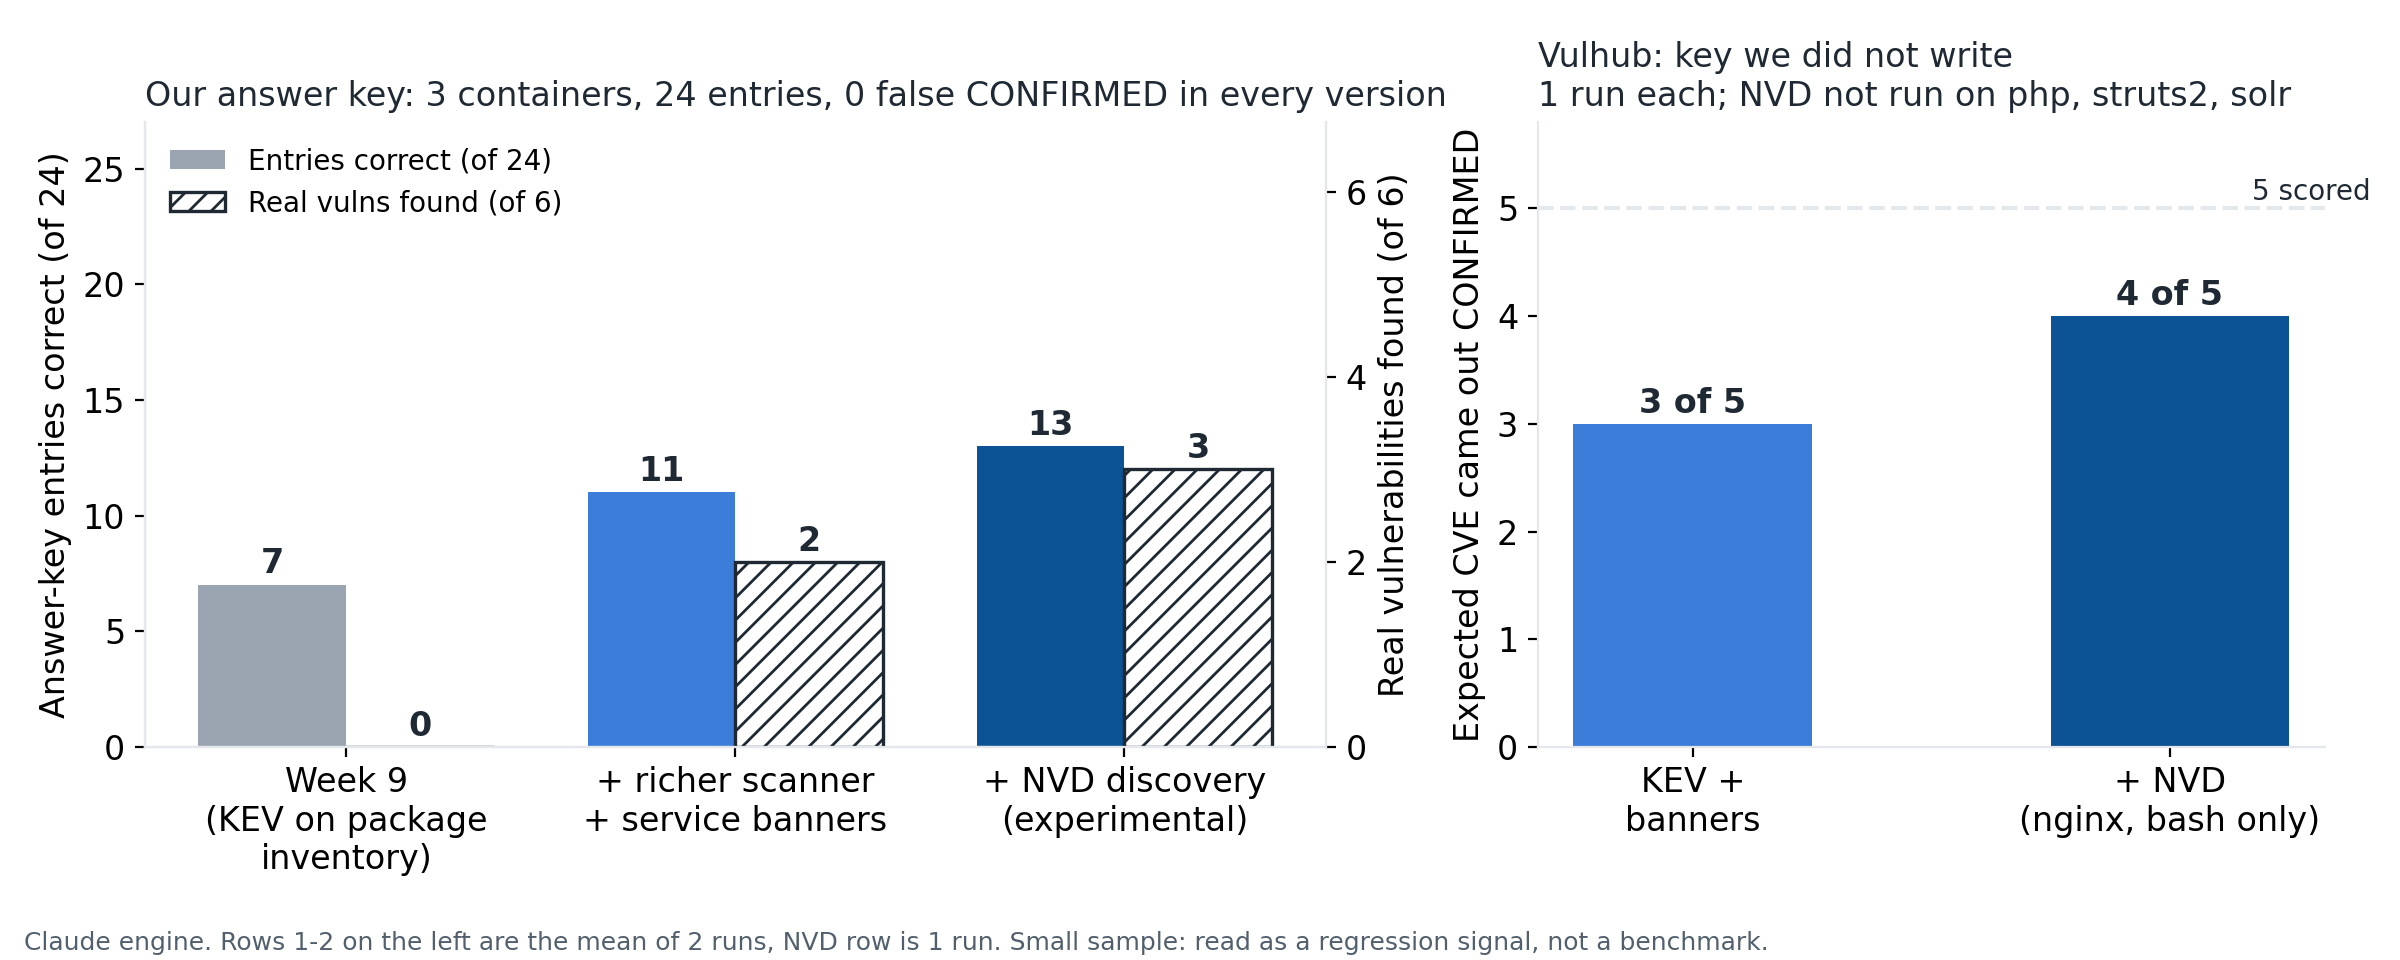
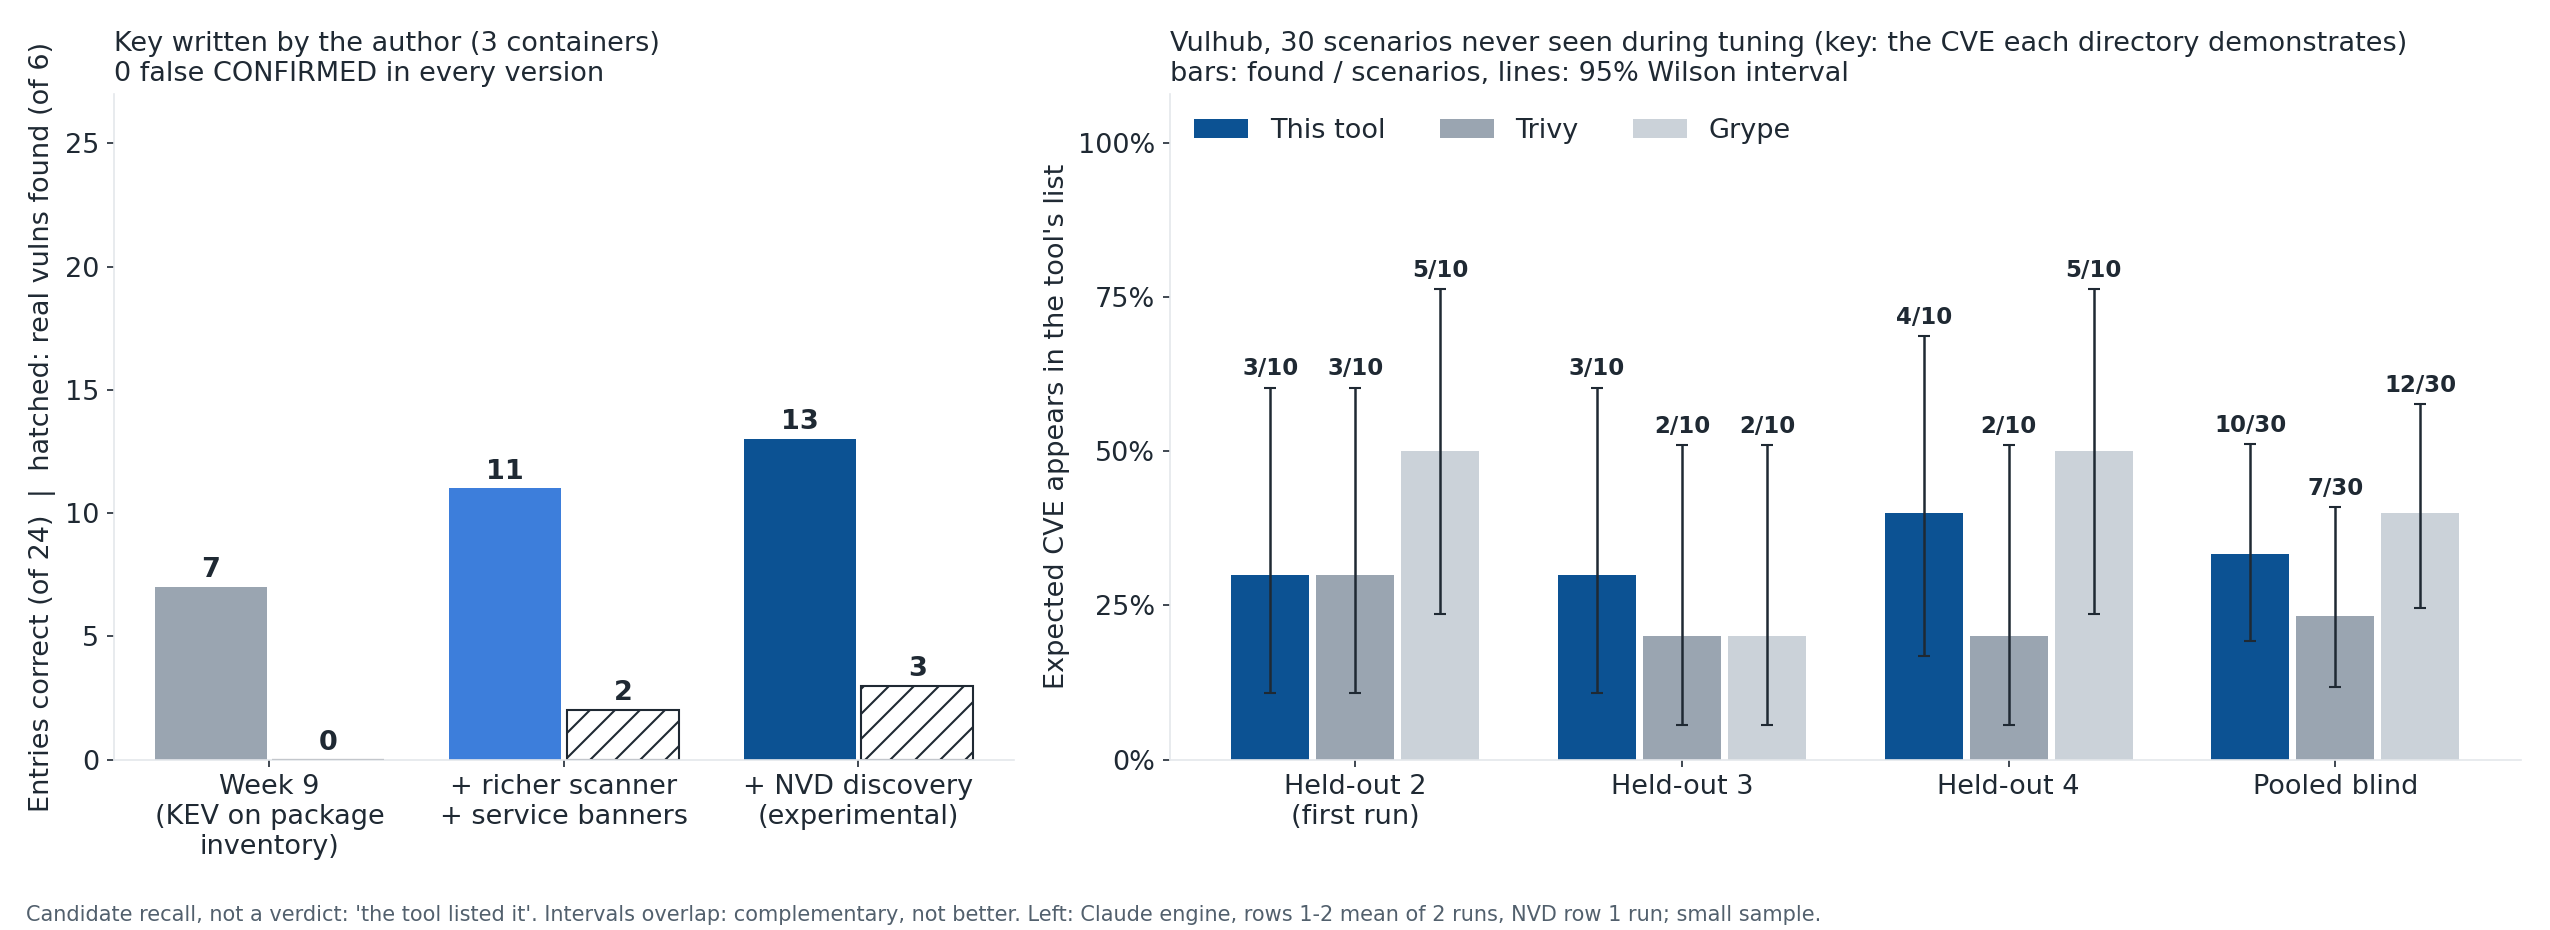
Redraw results.png with blind sets and intervals; stop saying exploitable

diff --git a/docs/poster/make_results.py b/docs/poster/make_results.py
@@ -1,0 +1,61 @@
+"""Redraw docs/poster/results.png from the numbers in numbers.md (sections 3 and 1). Run: python docs/poster/make_results.py"""
+from math import sqrt
+import matplotlib
+matplotlib.use("Agg")
+import matplotlib.pyplot as plt
+
+INK, GREY, LIGHT, DARK = "#1f2933", "#9aa5b1", "#3d7edb", "#0c5293"
+plt.rcParams.update({"font.size": 13, "axes.edgecolor": "#e4e7eb", "text.color": INK,
+                     "axes.labelcolor": INK, "xtick.color": INK, "ytick.color": INK})
+
+
+def wilson(k, n, z=1.96):
+    p = k / n
+    d = 1 + z * z / n
+    c = (p + z * z / (2 * n)) / d
+    h = z * sqrt(p * (1 - p) / n + z * z / (4 * n * n)) / d
+    return c - h, c + h
+
+
+fig, (a, b) = plt.subplots(1, 2, figsize=(17, 6.2), gridspec_kw={"width_ratios": [1, 1.5]})
+
+# left: answer key written by the author (numbers.md section 3)
+labels = ["Week 9\n(KEV on package\ninventory)", "+ richer scanner\n+ service banners", "+ NVD discovery\n(experimental)"]
+correct, real = [7, 11, 13], [0, 2, 3]
+x = range(3)
+a.bar([i - 0.2 for i in x], correct, 0.38, color=[GREY, LIGHT, DARK])
+a.bar([i + 0.2 for i in x], real, 0.38, color="white", edgecolor=INK, hatch="//")
+for i in x:
+    a.text(i - 0.2, correct[i] + 0.4, correct[i], ha="center", weight="bold")
+    a.text(i + 0.2, real[i] + 0.4, real[i], ha="center", weight="bold")
+a.set_xticks(list(x), labels)
+a.set_ylim(0, 27)
+a.set_ylabel("Entries correct (of 24)  |  hatched: real vulns found (of 6)")
+a.set_title("Key written by the author (3 containers)\n0 false CONFIRMED in every version", loc="left", fontsize=13)
+
+# right: blind Vulhub sets, candidate recall (numbers.md section 1)
+sets = [("Held-out 2\n(first run)", 10, 3, 3, 5), ("Held-out 3", 10, 3, 2, 2), ("Held-out 4", 10, 4, 2, 5),
+        ("Pooled blind", 30, 10, 7, 12)]
+cols = [("This tool", DARK), ("Trivy", GREY), ("Grype", "#cbd2d9")]
+w = 0.26
+for j, (name, col) in enumerate(cols):
+    for i, s in enumerate(sets):
+        k, n = s[2 + j], s[1]
+        lo, hi = wilson(k, n)
+        xx = i + (j - 1) * w
+        b.bar(xx, k / n, w * 0.92, color=col, label=name if i == 0 else None)
+        b.errorbar(xx, k / n, yerr=[[k / n - lo], [hi - k / n]], color=INK, capsize=3, lw=1.2)
+        b.text(xx, hi + 0.02, f"{k}/{n}", ha="center", fontsize=11, weight="bold")
+b.set_xticks(range(len(sets)), [s[0] for s in sets])
+b.set_ylim(0, 1.08)
+b.set_yticks([0, .25, .5, .75, 1], ["0%", "25%", "50%", "75%", "100%"])
+b.set_ylabel("Expected CVE appears in the tool's list")
+b.legend(frameon=False, loc="upper left", ncol=3)
+b.set_title("Vulhub, 30 scenarios never seen during tuning (key: the CVE each directory demonstrates)\nbars: found / scenarios, lines: 95% Wilson interval", loc="left", fontsize=13)
+
+for ax in (a, b):
+    ax.spines[["top", "right"]].set_visible(False)
+fig.text(0.01, 0.01, "Candidate recall, not a verdict: 'the tool listed it'. Intervals overlap: complementary, not better. "
+         "Left: Claude engine, rows 1-2 mean of 2 runs, NVD row 1 run; small sample.", fontsize=10, color="#52606d")
+fig.tight_layout(rect=(0, 0.04, 1, 1))
+fig.savefig("docs/poster/results.png", dpi=150)

diff --git a/README.md b/README.md
@@ -1,14 +1,15 @@
 # AI Security Agent
 
 A gray-box vulnerability assessment tool that answers the question scanners
-leave open: **of the CVEs that match this machine's software, which ones can
-actually be exploited here?**
+leave open: **of the CVEs that match this machine's software, which ones are
+actually present, reachable and not mitigated here?**
 
 Scanners list every CVE whose version range matches. This tool then asks an AI
 reasoning layer to check each one against measured facts about the host
 (config, loaded modules, listening sockets) and what an outside attacker can
-reach, and returns one of five verdicts with its reasoning. It never
-exploits anything.
+reach, and returns one of five verdicts with its reasoning. `CONFIRMED` means
+"affected version present, and a service that could expose it is reachable",
+not "proven exploitable". It never exploits anything.
 
 Undergraduate 畢業專題 (Taiwan). Design rationale: `docs/DESIGN.md`. QA record:
 `docs/VERIFICATION.md`. Status and open work: `PROJECT_STATE.md`.
@@ -198,6 +199,19 @@ engine; week-9 and "banners" rows are the mean of 2 runs, the NVD row is 1 run.
   log in `eval-lab/ground_truth.md`.
 - Sample is small (3 containers, 1-2 runs, key written by the author). Treat
   it as a regression signal.
+
+### Blind Vulhub sets, compared with Trivy and Grype
+
+Later sets of Vulhub scenarios were drawn by a script with a fixed seed and
+committed before any run, then run once with unchanged scanner code. Scored on
+whether the expected CVE appears in each tool's list (a recall measure, not a
+verdict). Over 30 such scenarios (held-out 2 first run, 3 and 4): this tool 10,
+Trivy 7, Grype 12. The 95% intervals overlap, so read it as **complementary**,
+not better: the tool finds hand-installed and uberjar services (Flink,
+WordPress, Druid, Ghostscript) that image scanners miss, and Grype lists more
+of the rest. Misses and their causes are in `docs/poster/numbers.md`, which
+also lists what has not been measured (precision in particular). The chart is
+`docs/poster/results.png`; `docs/poster/make_results.py` redraws it.
 
 ### Answer key we did not write: Vulhub
 

diff --git a/docs/poster/numbers.md b/docs/poster/numbers.md
@@ -1,8 +1,9 @@
 # Poster numbers
 
 Status of this file: consolidated 2026-11-03 from README.md (Results), PROJECT_STATE.md (v3-6b to v3-11) and the raw
-result files under `eval-lab/`; held-out set 4 and Django/Airflow added 2026-11-05 (v3-13). `results.png` is still drawn from
-the OLD table (section 3) and does not show section 1; redraw it before printing.
+result files under `eval-lab/`; held-out set 4 and Django/Airflow added 2026-11-05 (v3-13). `results.png` was redrawn 2026-11-05 by
+`make_results.py` (section 3 on the left, section 1 blind sets with Wilson intervals on the right); the numbers are
+typed into that script, so rerun it if section 1 changes. Django/Airflow are not on the chart.
 
 Two kinds of number appear below. Do not mix them on the poster.
 
@@ -120,7 +121,8 @@ Go service listens on 10086). It is not "exploitable". No human review of the 76
 
 ## 7. Wording that the evidence supports
 
-Print: "tells you which matching CVEs are exploitable *on this host*"; "finds hand-installed and uberjar services that
+Print: "tells you which matching CVEs are affected, present and reachable *on this host*, with a reason"
+(CONFIRMED is not "exploitable"; nothing is exploited); "finds hand-installed and uberjar services that
 image scanners miss (flink, wordpress, druid); complementary to Trivy and Grype, not a replacement"; "two blind sets of 10
 new scenarios each: 3 and 4 found vs 2 and 2 (Trivy) and 2 and 5 (Grype); pooled over three blind sets 10, 7 and 12 of 30".
 
